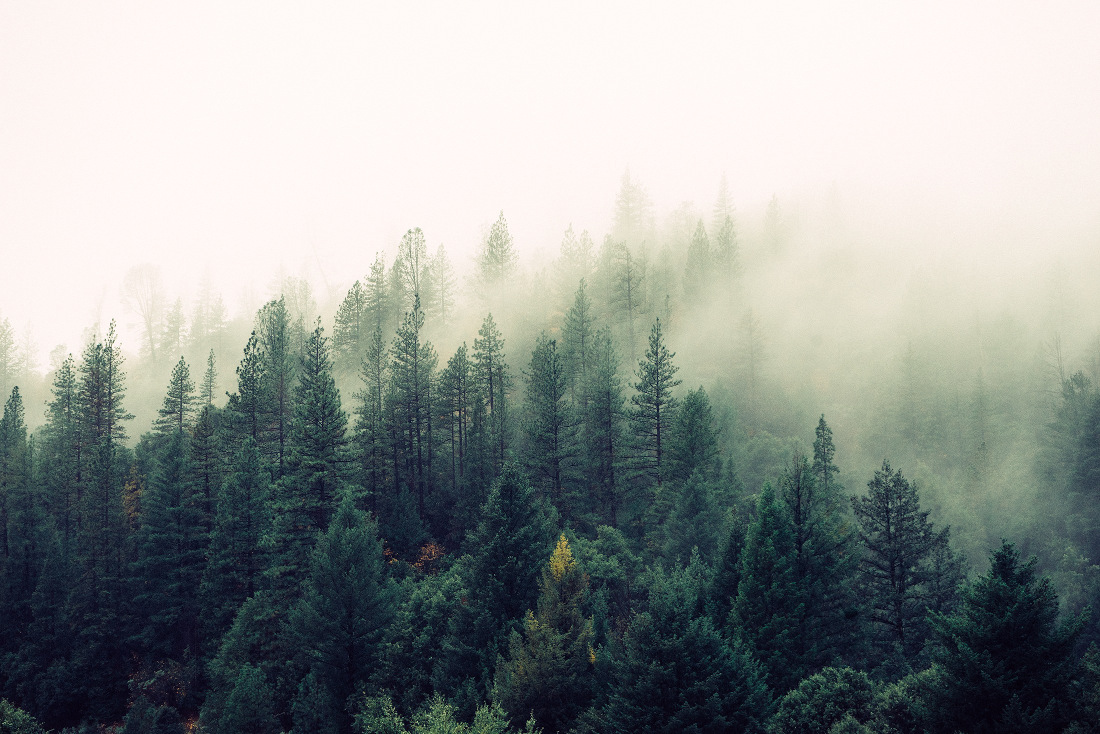
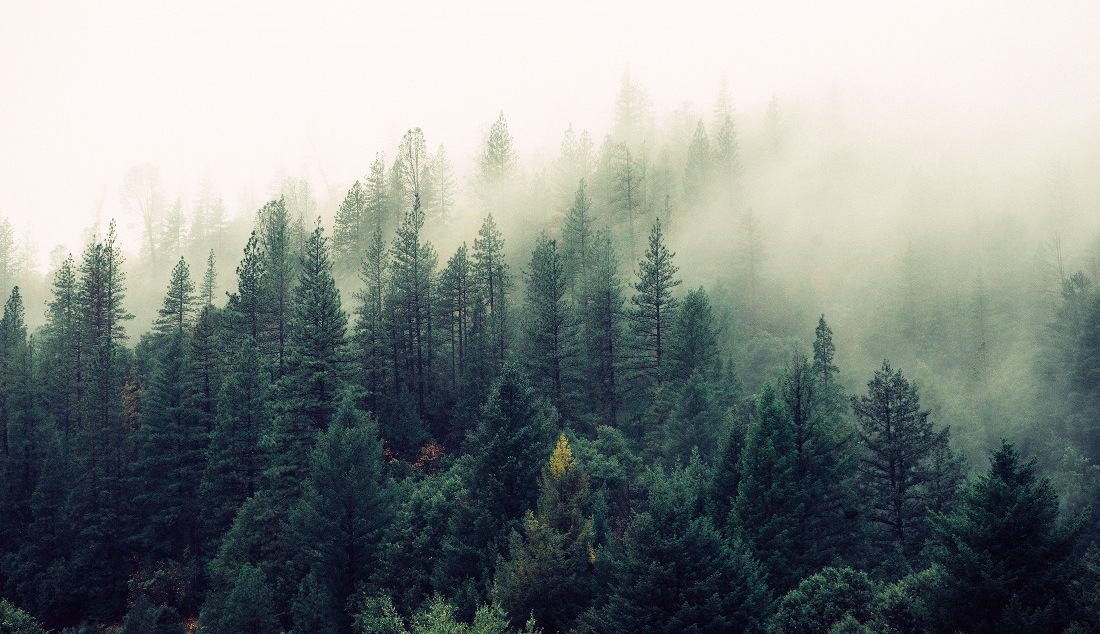
update image and styles for headline

diff --git a/src/assets/css/globals/_base.scss b/src/assets/css/globals/_base.scss
@@ -35,11 +35,7 @@ a {
 }
 
 em {
-  color: $c-cream;
-
-  @include bp(papa-bear) {
-    color: $c-dark_cream;
-  }
+  color: $c-dark_cream;
 }
 
 h3 {
